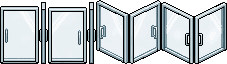
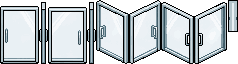
Draw the doors edge on in walls running away from the eye (#146)
The doors' east and west pictures were generated as the door seen at an
angle, one edge longer than the other. Straightened, their outline was
square but the slant still showed inside, and in a side wall the door
looked to tip. Seen edge on, a door is a strip: the frame's jambs, the
leaf's edge between them and a handle on each face.

The wood door, the glass door and the exit now have that strip as both
their east and west pictures, drawn in each door's own colours sampled
from its front picture, with the exit's green sign at the top. It is
one cell tall, so it is drawn at its own size. Pictures already straight
are no longer run through the straightening, which had added an outline
row top and bottom and squashed them.

diff --git a/src/Loadout.Core/Teams/Daemon/dashboard.html b/src/Loadout.Core/Teams/Daemon/dashboard.html
@@ -6115,7 +6115,9 @@
 
       widths.forEach(function (n, y) { if (n >= widest * 0.9) { rows.push(y); } });
 
-      if (rows.length < 4) { return (tileStraightened[key] = plain); }
+      // Already straight, as the doors' edge-on pictures are, or too little
+      // at full width to keep: as it is.
+      if (rows.length < 4 || rows.length === sh) { return (tileStraightened[key] = plain); }
 
       var top = rows[0];
       var bottom = rows[rows.length - 1];
